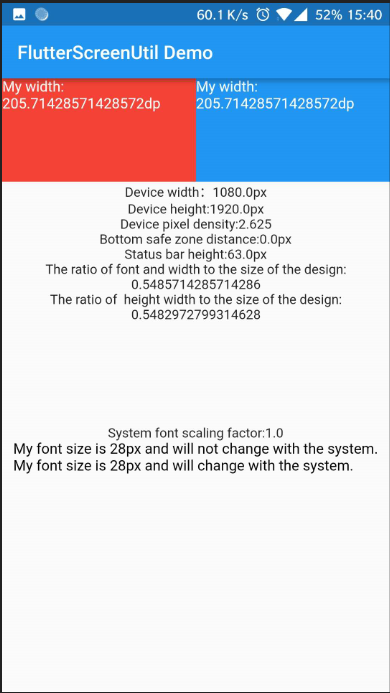
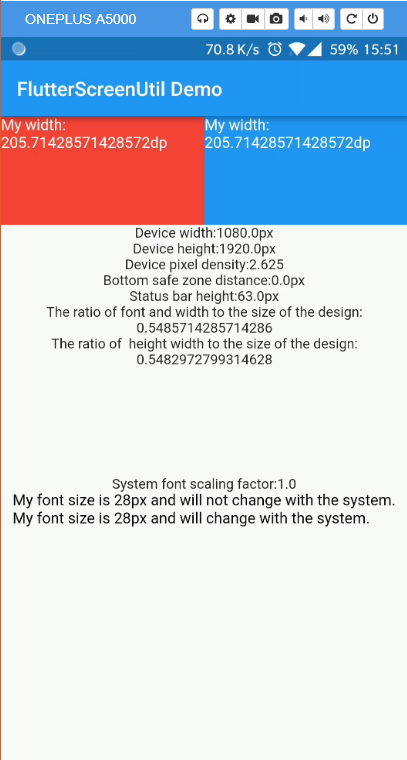
优化example

Changed region(s): [[0.0, 0.0, 1.0, 1.0]]

diff --git a/example/lib/main.dart b/example/lib/main.dart
@@ -77,7 +77,7 @@ class _MyHomePageState extends State<MyHomePage> {
                 ),
               ],
             ),
-            Text('Device width：${ScreenUtil.screenWidth}px'),
+            Text('Device width:${ScreenUtil.screenWidth}px'),
             Text('Device height:${ScreenUtil.screenHeight}px'),
             Text('Device pixel density:${ScreenUtil.pixelRatio}'),
             Text('Bottom safe zone distance:${ScreenUtil.bottomBarHeight}px'),

diff --git a/example/lib/main_zh.dart b/example/lib/main_zh.dart
@@ -77,7 +77,7 @@ class _MyHomePageState extends State<MyHomePage> {
                 ),
               ],
             ),
-            Text('设备宽度：${ScreenUtil.screenWidth}px'),
+            Text('设备宽度:${ScreenUtil.screenWidth}px'),
             Text('设备高度:${ScreenUtil.screenHeight}px'),
             Text('设备的像素密度:${ScreenUtil.pixelRatio}'),
             Text('底部安全区距离:${ScreenUtil.bottomBarHeight}px'),

diff --git a/README.md b/README.md
@@ -136,7 +136,7 @@ import 'package:flutter_screenutil/flutter_screenutil.dart';
                 ),
               ],
             ),
-            Text('Device width：${ScreenUtil.screenWidth}px'),
+            Text('Device width:${ScreenUtil.screenWidth}px'),
             Text('Device height:${ScreenUtil.screenHeight}px'),
             Text('Device pixel density:${ScreenUtil.pixelRatio}'),
             Text('Bottom safe zone distance:${ScreenUtil.bottomBarHeight}px'),

diff --git a/README_CN.md b/README_CN.md
@@ -137,7 +137,7 @@ import 'package:flutter_screenutil/flutter_screenutil.dart';
                 ),
               ],
             ),
-            Text('设备宽度：${ScreenUtil.screenWidth}px'),
+            Text('设备宽度:${ScreenUtil.screenWidth}px'),
             Text('设备高度:${ScreenUtil.screenHeight}px'),
             Text('设备的像素密度:${ScreenUtil.pixelRatio}'),
             Text('底部安全区距离:${ScreenUtil.bottomBarHeight}px'),
